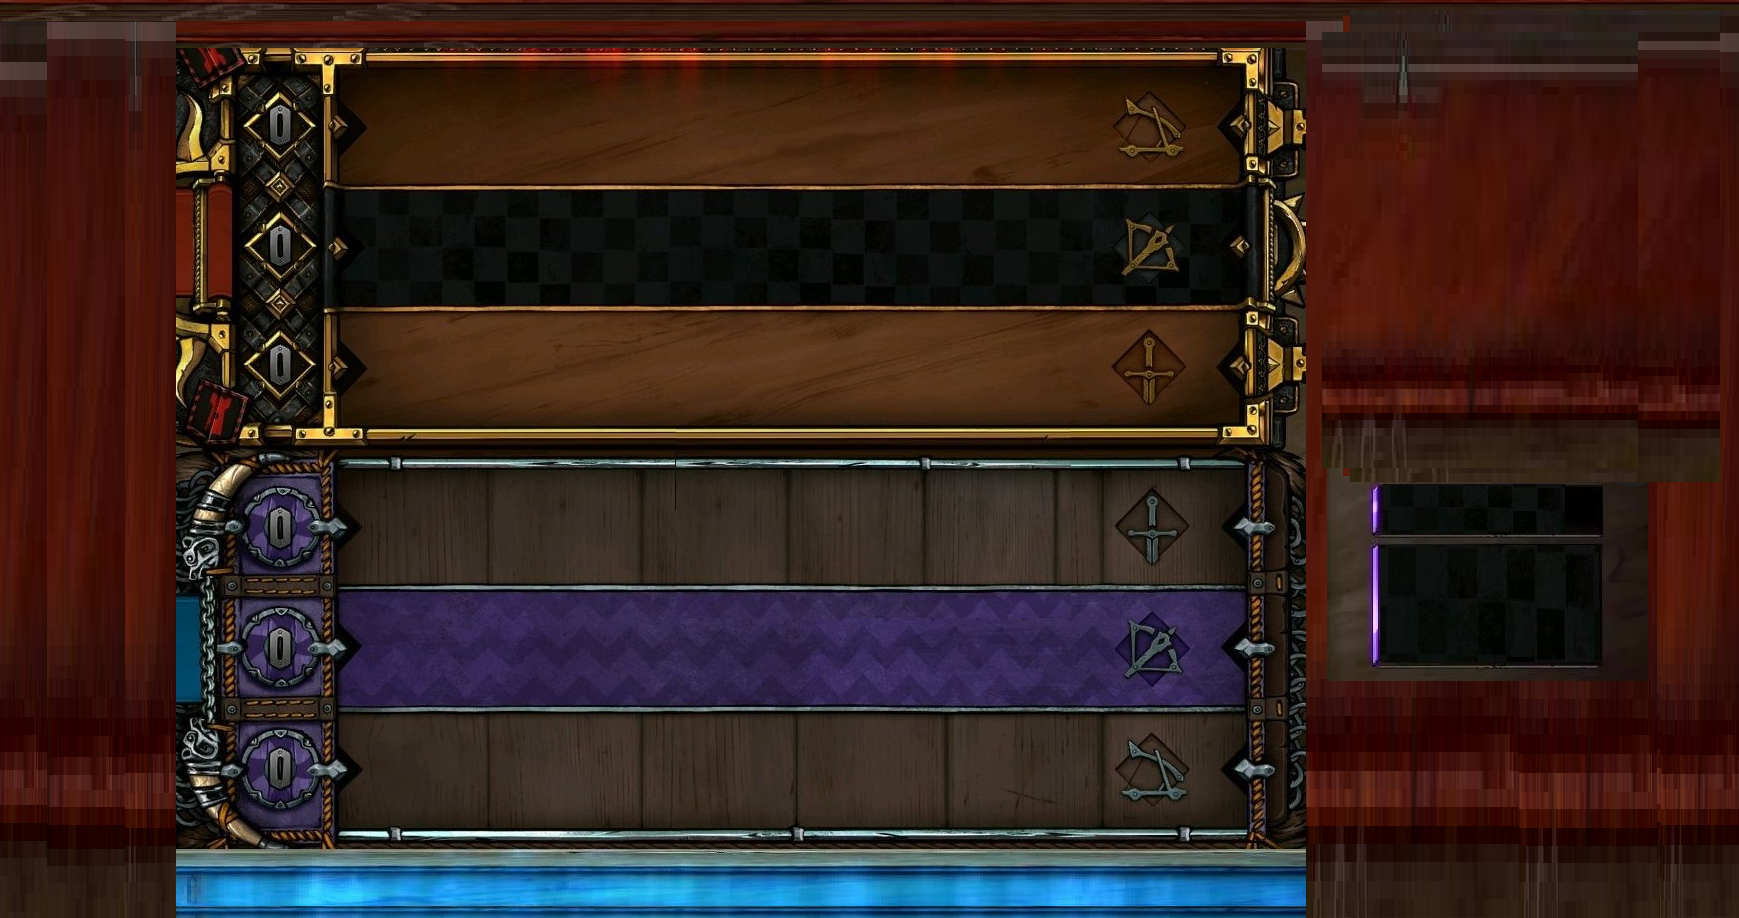
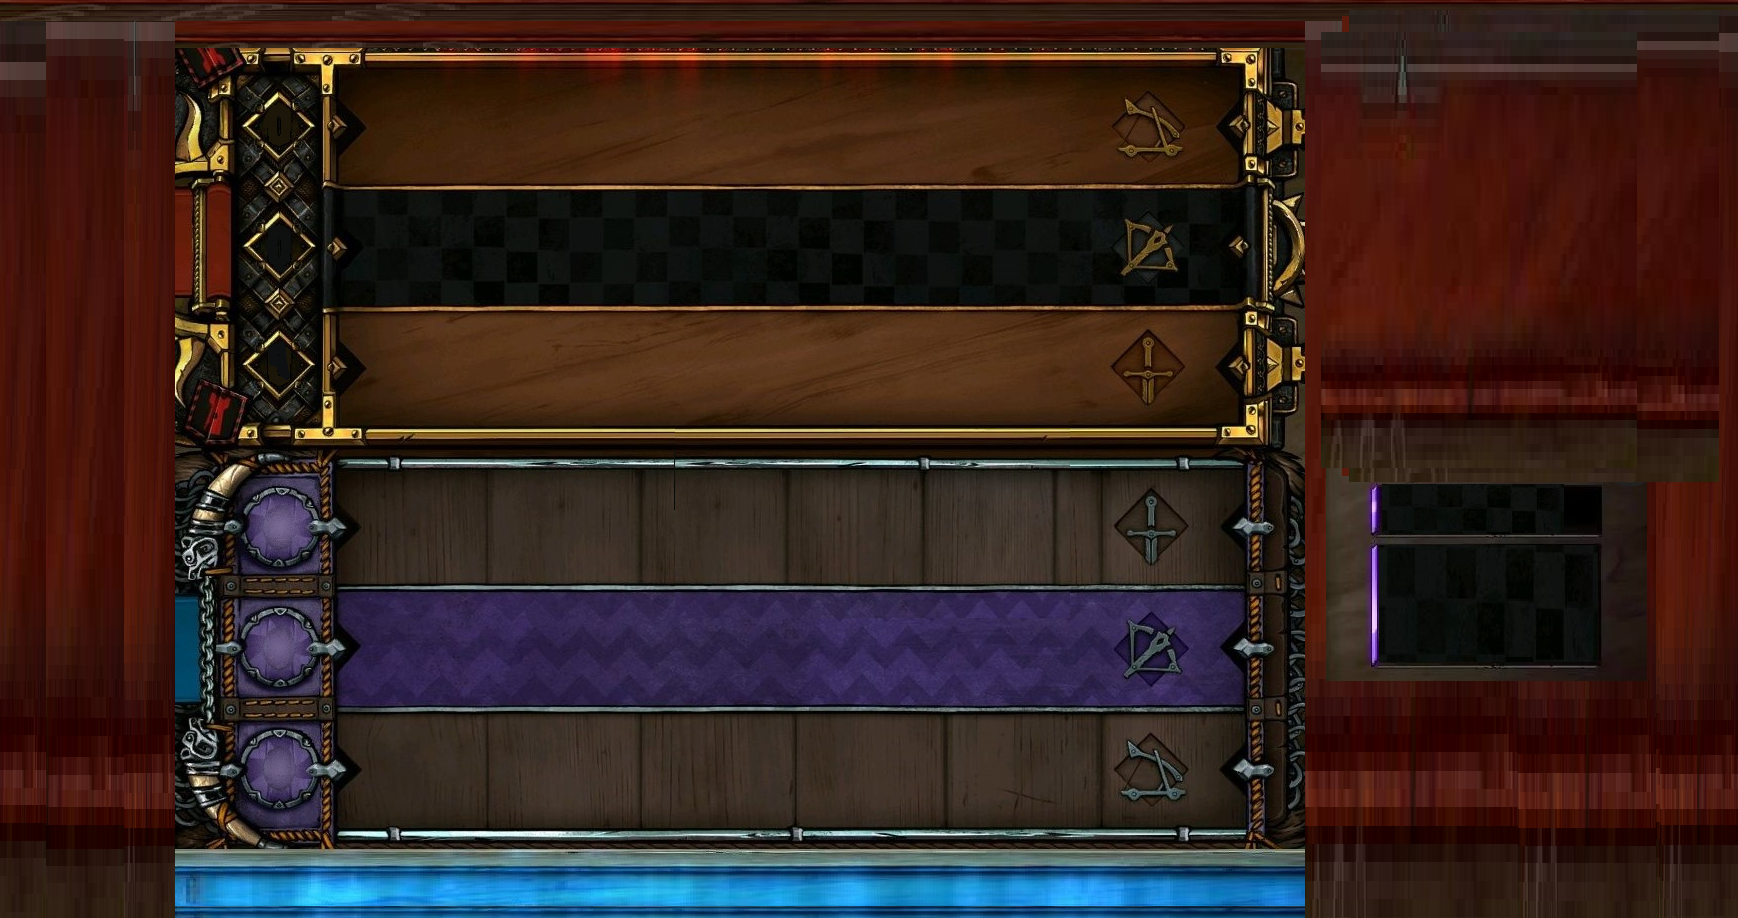
Adding Attack Points

Changed region(s): [[0.0932, 0.061, 0.2175, 0.915], [0.1864, 0.4575, 0.2175, 0.488], [0.1864, 0.061, 0.2175, 0.0915]]

diff --git a/Classes/CardScene.cpp b/Classes/CardScene.cpp
@@ -58,6 +58,7 @@ bool CardScene::init()
 	initJSONDetails();
 	initAndCleanClick();
 	initLines();
+	initPointLabels();
 
 	default0 = Sprite::create("default.png");
 	default0->setPosition(Vec2(visibleSize.width - 130, visibleSize.height - 180));
@@ -67,8 +68,8 @@ bool CardScene::init()
 	auto cardPos = default0->getPosition();
 	targetCardName = Label::createWithTTF(" ", "fonts/Marker Felt.ttf", 20);
 	targetCardType = Label::createWithTTF(" ", "fonts/Marker Felt.ttf", 16);
-	targetCardName->setPosition(Vec2(cardPos.x, cardPos.y - 260));
-	targetCardType->setPosition(Vec2(cardPos.x, cardPos.y - 200));
+	targetCardName->setPosition(Vec2(cardPos.x, cardPos.y - 240));
+	targetCardType->setPosition(Vec2(cardPos.x, cardPos.y - 190));
 	targetCardType->setColor(Color3B::ORANGE);
 	this->addChild(targetCardName, 1);
 	this->addChild(targetCardType, 1);
@@ -123,13 +124,22 @@ void CardScene::networkUpdate(float f) {
 		auto res = access0.split(nowMsg, "||");
 		if (res[0] == "deck") {
 			initMyCards(res);
+			access0.GetCurrentStatus(sessionKey);
+		}
+		else if (res[0] == "status") {
+			if (res[1] != myName && Value(res[4]).asInt() == 0 && Value(res[5]).asInt() == 0) {
+				coinState = false;
+				changeBoardState(false);
+				bCoin->setVisible(false);
+				rCoin->setVisible(true);
+			}
 		}
 	}
 }
 
 void CardScene::initLines() {
 	auto visibleSize = Director::getInstance()->getVisibleSize();
-	int order_height = 110;
+	int order_height = 98;
 	for (int i = 0; i < 3; i++) {
 		auto sp1 = Sprite::create("line.png");
 		sp1->setPosition(Vec2(visibleSize.width / 2 - 40, order_height));
@@ -137,9 +147,72 @@ void CardScene::initLines() {
 		sp1->setName("line" + Value(i).asString());
 		sp1->setContentSize(Size(1000, sp1->getContentSize().height));
 		order_height += sp1->getContentSize().height - 65;
-		sp1->setVisible(false);
+		//sp1->setVisible(false);
 		this->addChild(sp1, 1);
 	}
+}
+
+void CardScene::initPointLabels() {
+	auto visibleSize = Director::getInstance()->getVisibleSize();
+	myPoints = oppoPoints = 0;
+	for (int i = 0; i < 3; i++) {
+		MyLinePoints.push_back(0);
+		OppoLinePoints.push_back(0);
+	}
+	// My point labels
+	int order_height = visibleSize.height / 2 - 45;
+	for (int i = 0; i < 3; i++) {
+		auto num1 = Sprite::create("characters/Numbers/number0.png");
+		auto num2 = Sprite::create("characters/Numbers/number0.png");
+		num1->setPosition(Vec2(143, order_height));
+		num2->setPosition(Vec2(163, order_height));
+		num1->setScale(0.6);
+		num2->setScale(0.6);
+		this->addChild(num1, 1);
+		this->addChild(num2, 1);
+		allLabels.push_back(num1);
+		allLabels.push_back(num2);
+		order_height -= 75;
+	}
+	// My Total labels
+	auto num1 = Sprite::create("characters/Numbers/number0.png");
+	auto num2 = Sprite::create("characters/Numbers/number0.png");
+	num1->setPosition(Vec2(42, visibleSize.height / 2 - 34));
+	num2->setPosition(Vec2(62, visibleSize.height / 2 - 34));
+	num1->setScale(0.6);
+	num2->setScale(0.6);
+	this->addChild(num1, 1);
+	this->addChild(num2, 1);
+	allLabels.push_back(num1);
+	allLabels.push_back(num2);
+
+	// Opponent point Labels
+	order_height = visibleSize.height / 2 + 60;
+	for (int i = 0; i < 3; i++) {
+		auto num1 = Sprite::create("characters/Numbers/number0.png");
+		auto num2 = Sprite::create("characters/Numbers/number0.png");
+		num1->setPosition(Vec2(143, order_height));
+		num2->setPosition(Vec2(163, order_height));
+		num1->setScale(0.6);
+		num2->setScale(0.6);
+		this->addChild(num1, 1);
+		this->addChild(num2, 1);
+		allLabels.push_back(num1);
+		allLabels.push_back(num2);
+		order_height += 75;
+	}
+	// Opponent total labels
+	// My Total labels
+	auto num3 = Sprite::create("characters/Numbers/number0.png");
+	auto num4 = Sprite::create("characters/Numbers/number0.png");
+	num3->setPosition(Vec2(42, visibleSize.height / 2 + 87));
+	num4->setPosition(Vec2(62, visibleSize.height / 2 + 87));
+	num3->setScale(0.6);
+	num4->setScale(0.6);
+	this->addChild(num3, 1);
+	this->addChild(num4, 1);
+	allLabels.push_back(num3);
+	allLabels.push_back(num4);
 }
 
 void CardScene::initGameDatas() {
@@ -243,6 +316,8 @@ void CardScene::onTouchEnded(Touch *touch, Event *event) {
 	}
 	auto root = Director::getInstance()->getRunningScene();
 	auto cardPos = (Sprite*)root->getChildByTag(target);
+	string name = cardNames[target].second;
+	Card* theCard = getCardByName(name);
 	if (onBoard[target] == true) {
 		cardPos->setPosition(originPos[target]);
 		return;
@@ -260,6 +335,7 @@ void CardScene::onTouchEnded(Touch *touch, Event *event) {
 			originPos[target] = cardPos->getPosition();
 			correctFlag = true;
 			lineCardNum[i]++;
+			changePoints(2-i, theCard->attack);
 			auto upMove = Sequence::create(DelayTime::create(0.5), Show::create(),
 				OrbitCamera::create(0.5, 1.5, 0, 180, 90, 0, 0), NULL);
 			auto downMove = Sequence::create(OrbitCamera::create(0.5, 1.5, 0, 0, 90, 0, 0), Hide::create(),
@@ -287,6 +363,30 @@ void CardScene::onTouchEnded(Touch *touch, Event *event) {
 		outFlag[i] = false;
 	}
 
+}
+
+void CardScene::changePoints(int row, int point) {
+	MyLinePoints[row] += point;
+	myPoints += point;
+	int upOrDown = 0;
+	if (MyLinePoints[row] < 10) {
+		allLabels[row * 2 + 1]->setTexture(Director::getInstance()->getTextureCache()->addImage("characters/Numbers/number" + Value(MyLinePoints[row]).asString() + ".png"));
+	}
+	else {
+		int first = MyLinePoints[row] / 10, second = MyLinePoints[row] % 10;
+		allLabels[row * 2]->setTexture(Director::getInstance()->getTextureCache()->addImage("characters/Numbers/number" + Value(first).asString() + ".png"));
+		allLabels[row * 2 + 1]->setTexture(Director::getInstance()->getTextureCache()->addImage("characters/Numbers/number" + Value(second).asString() + ".png"));
+	}
+	if (row >= 3)
+		upOrDown = 1;
+	if (myPoints < 10) {
+		allLabels[upOrDown * 7 + 7]->setTexture(Director::getInstance()->getTextureCache()->addImage("characters/Numbers/number" + Value(myPoints).asString() + ".png"));
+	}
+	else {
+		int first = myPoints / 10, second = myPoints % 10;
+		allLabels[upOrDown * 6 + 6]->setTexture(Director::getInstance()->getTextureCache()->addImage("characters/Numbers/number" + Value(first).asString() + ".png"));
+		allLabels[upOrDown * 7 + 7]->setTexture(Director::getInstance()->getTextureCache()->addImage("characters/Numbers/number" + Value(second).asString() + ".png"));
+	}
 }
 
 void CardScene::changeBoardState(bool flag) {
@@ -348,13 +448,13 @@ void CardScene::onMouseMoved(Event* e) {
 			if (sp->getPosition().getDistance(pos) <= 40) {
 				if (!outFlag[i]) {
 					outFlag[i] = true;
-					auto animate = ScaleTo::create(1.0f, 0.20f, 0.20f);
+					auto animate = ScaleTo::create(0.5f, 0.20f, 0.20f);
 					sp->runAction(animate);
 				}
 			}
 			else {
 				if (outFlag[i]) {
-					auto animate = ScaleTo::create(1.0f, 0.17f, 0.17f);
+					auto animate = ScaleTo::create(0.5f, 0.17f, 0.17f);
 					sp->runAction(animate);
 				}
 				outFlag[i] = false;
@@ -367,13 +467,13 @@ void CardScene::onMouseMoved(Event* e) {
 			if (oppoCard->getPosition().getDistance(pos) <= 40) {
 				if (!OppOutFlag[i]) {
 					OppOutFlag[i] = true;
-					auto animate = ScaleTo::create(1.0f, 0.24f, 0.24f);
+					auto animate = ScaleTo::create(0.5f, 0.24f, 0.24f);
 					oppoCard->runAction(animate);
 				}
 			}
 			else {
 				if (OppOutFlag[i]) {
-					auto animate = ScaleTo::create(1.0f, 0.21f, 0.21f);
+					auto animate = ScaleTo::create(0.5f, 0.21f, 0.21f);
 					oppoCard->runAction(animate);
 				}
 				OppOutFlag[i] = false;

diff --git a/Classes/CardScene.h b/Classes/CardScene.h
@@ -57,7 +57,9 @@ public:
 	// Board Rules
 	void initLines();
 	void initGameDatas();
+	void initPointLabels();
 	void changeBoardState(bool flag);
+	void changePoints(int row, int point);
 
 	// Read Cards Roles
 	void initJSONDetails();
@@ -77,7 +79,10 @@ private:
 	vector<bool> OppOutFlag;
 	vector<bool> onBoard;
 	vector<int> lineCardNum;
+	vector<int> MyLinePoints; // 0 1 2 total
+	vector<int> OppoLinePoints;
 	vector<Card*> jsonDetails;
+	vector<Sprite*> allLabels;
 
 	// Coin characters And Scale animations
 	Sprite* bCoin;
@@ -97,6 +102,8 @@ private:
 	string sessionKey;
 	int myRickType;
 	int oppoRickType;
+	int myPoints;
+	int oppoPoints;
 
 	// NetWork Message
 	string nowMsg;
